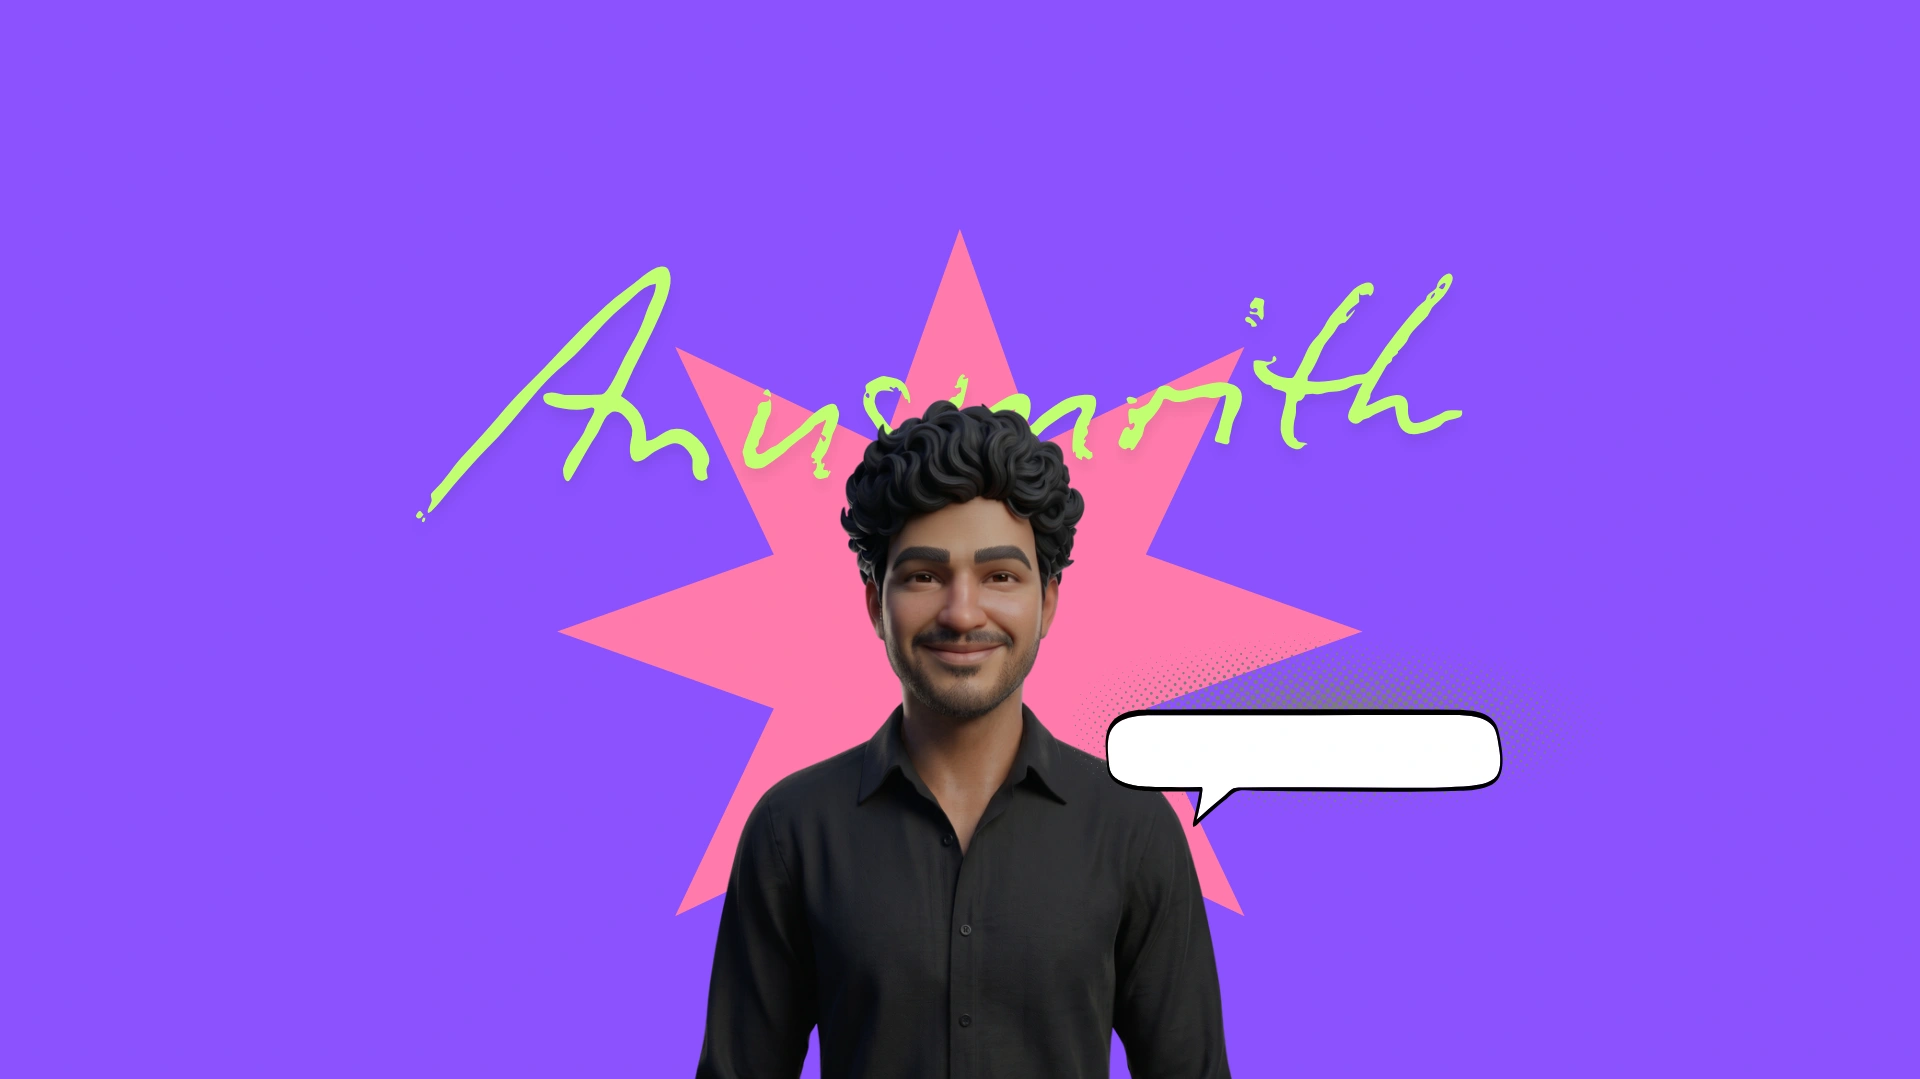
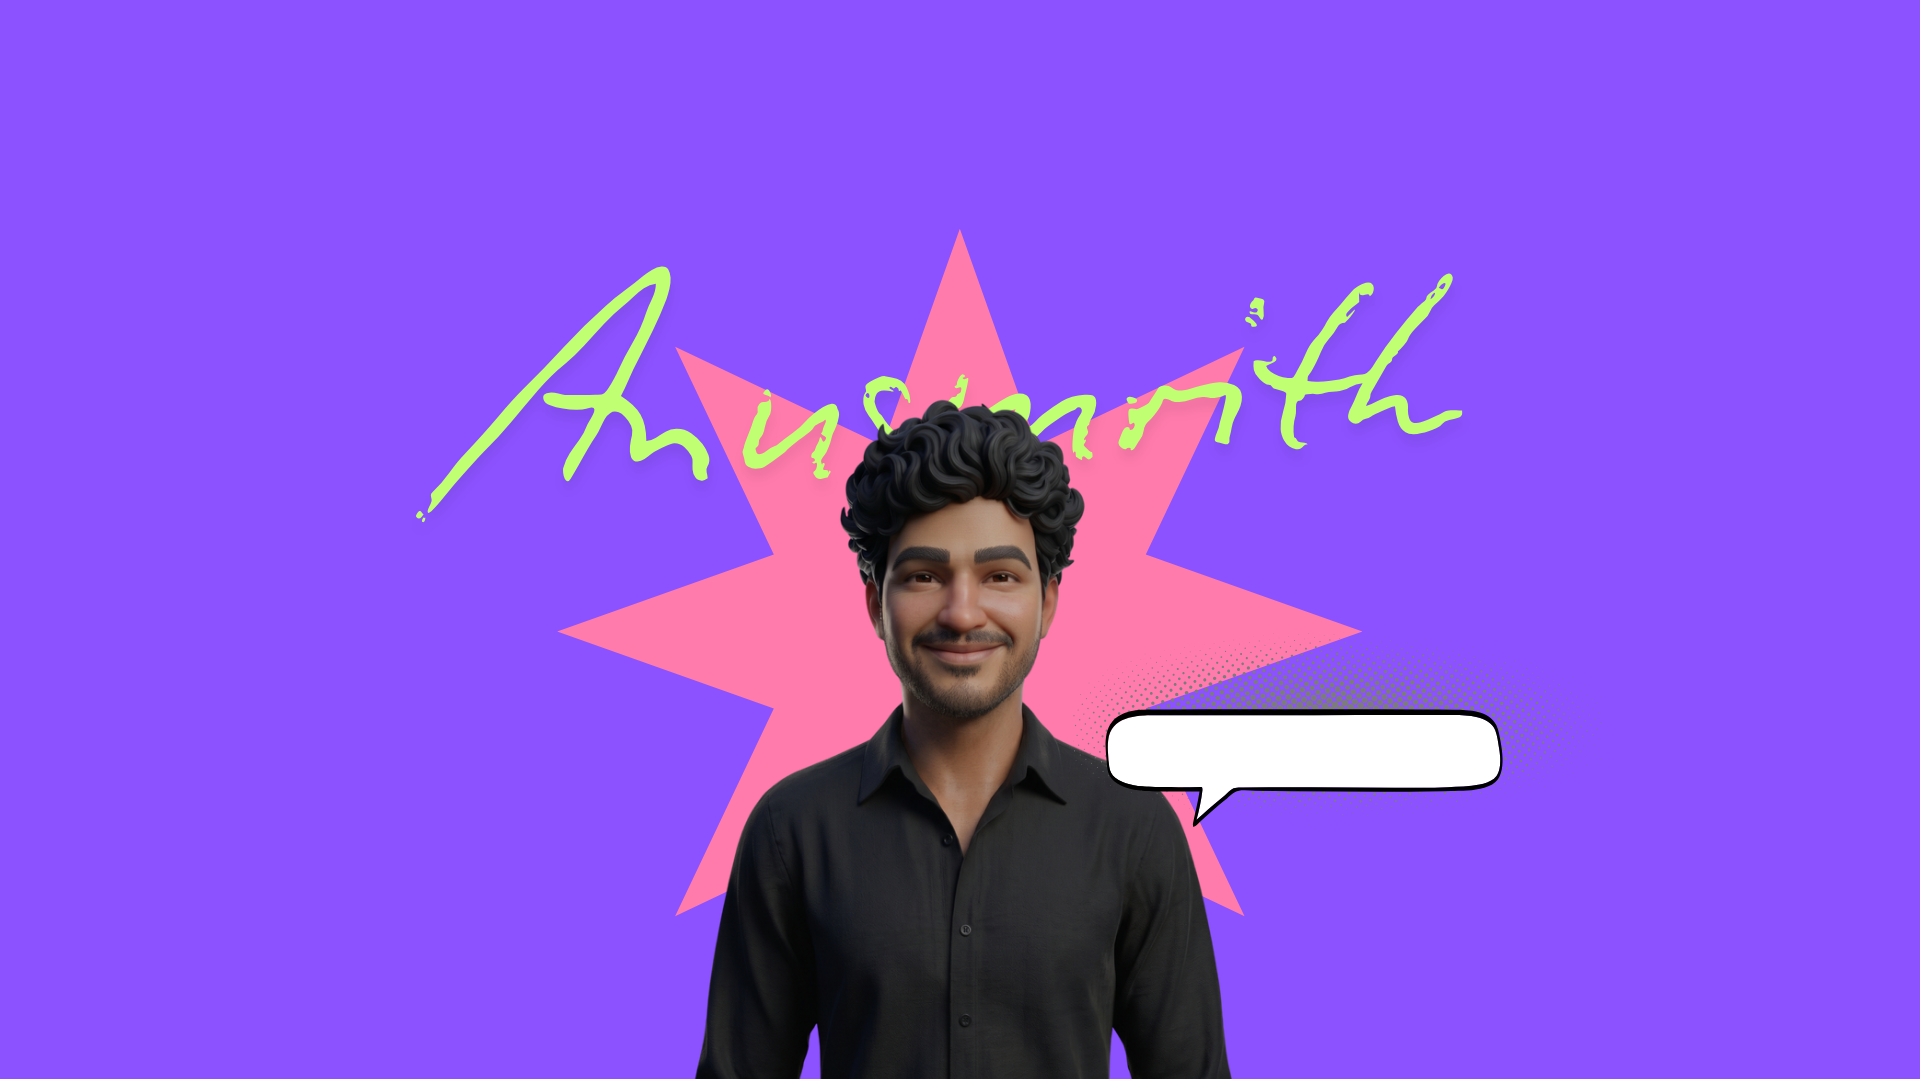
Eliminate rectangular borders on both sides by synchronizing background colors and switching slides in atomic cut

diff --git a/index.html b/index.html
@@ -35,20 +35,23 @@
       opacity: 0;
       visibility: hidden;
       pointer-events: none;
-      transition: opacity 0.3s ease, visibility 0.3s ease, background-color 0.15s ease;
+      /* Only fade modal when opening/closing; NO background-color transition so stages change in atomic sync */
+      transition: opacity 0.3s ease, visibility 0.3s ease;
       overflow: hidden;
       user-select: none;
       -webkit-user-select: none;
       background-color: #ab826d;
       outline: none !important;
       border: none !important;
+      box-shadow: none !important;
       -webkit-tap-highlight-color: transparent !important;
       cursor: pointer;
     }
 
     .canva-modal *,
     .canva-modal *:focus,
-    .canva-modal *:active {
+    .canva-modal *:active,
+    .canva-modal *:focus-visible {
       outline: none !important;
       -webkit-tap-highlight-color: transparent !important;
     }
@@ -60,9 +63,27 @@
       pointer-events: auto !important;
     }
 
-    .canva-modal.stage-1 { background-color: #ab826d; }
-    .canva-modal.stage-2 { background-color: #8c52ff; }
-    .canva-modal.stage-3 { background-color: #000000; }
+    /* All hierarchy levels (modal, stage viewport, slide frame, and slide) share identical background color in lockstep */
+    .canva-modal.stage-1,
+    .canva-modal.stage-1 .canva-stage-viewport,
+    .canva-modal.stage-1 .canva-slide-frame,
+    .canva-slide-1 {
+      background-color: #ab826d !important;
+    }
+
+    .canva-modal.stage-2,
+    .canva-modal.stage-2 .canva-stage-viewport,
+    .canva-modal.stage-2 .canva-slide-frame,
+    .canva-slide-2 {
+      background-color: #8c52ff !important;
+    }
+
+    .canva-modal.stage-3,
+    .canva-modal.stage-3 .canva-stage-viewport,
+    .canva-modal.stage-3 .canva-slide-frame,
+    .canva-slide-3 {
+      background-color: #000000 !important;
+    }
 
     /* Minimal floating close button in top right */
     .canva-close-floating {
@@ -104,6 +125,9 @@
       justify-content: center;
       overflow: hidden;
       cursor: pointer;
+      outline: none !important;
+      border: none !important;
+      box-shadow: none !important;
     }
 
     /* The 1920:1079 Canva Canvas Frame matching the user's PDF */
@@ -119,9 +143,12 @@
       -webkit-user-select: none;
       transform-origin: center center;
       cursor: pointer;
+      outline: none !important;
+      border: none !important;
+      box-shadow: none !important;
     }
 
-    /* Individual Canva PDF Slides — Crisp cut with zero double-exposure ghosting */
+    /* Individual Canva PDF Slides — Instant clean cut with zero crossfade ghosting and zero border artifacts */
     .canva-slide {
       position: absolute;
       inset: 0;
@@ -129,20 +156,22 @@
       height: 100%;
       opacity: 0;
       visibility: hidden;
-      transition: opacity 0.08s linear, visibility 0.08s linear;
+      transition: none !important;
       display: flex;
       align-items: center;
       justify-content: center;
       pointer-events: none;
       outline: none !important;
       border: none !important;
+      box-shadow: none !important;
       cursor: pointer;
     }
 
     .canva-slide.is-active {
-      opacity: 1;
-      visibility: visible;
-      pointer-events: auto;
+      opacity: 1 !important;
+      visibility: visible !important;
+      pointer-events: auto !important;
+      transition: none !important;
     }
 
     .canva-slide picture,
@@ -150,12 +179,13 @@
       width: 100%;
       height: 100%;
       display: block;
-      object-fit: contain;
+      object-fit: cover;
       pointer-events: none;
       -webkit-user-drag: none;
       user-drag: none;
       outline: none !important;
       border: none !important;
+      box-shadow: none !important;
     }
 
     /* Interactive Hitbox over Avatar Face & Upper Area (Zero visible rectangle box) */
@@ -189,6 +219,8 @@
       transform: translate(-50%, -50%);
       box-sizing: border-box;
       outline: none !important;
+      border: none !important;
+      box-shadow: none !important;
     }
 
     /* Slide 1 Bubble: Resume (True Belly Center: cx=34.30%, cy=65.76%) */
